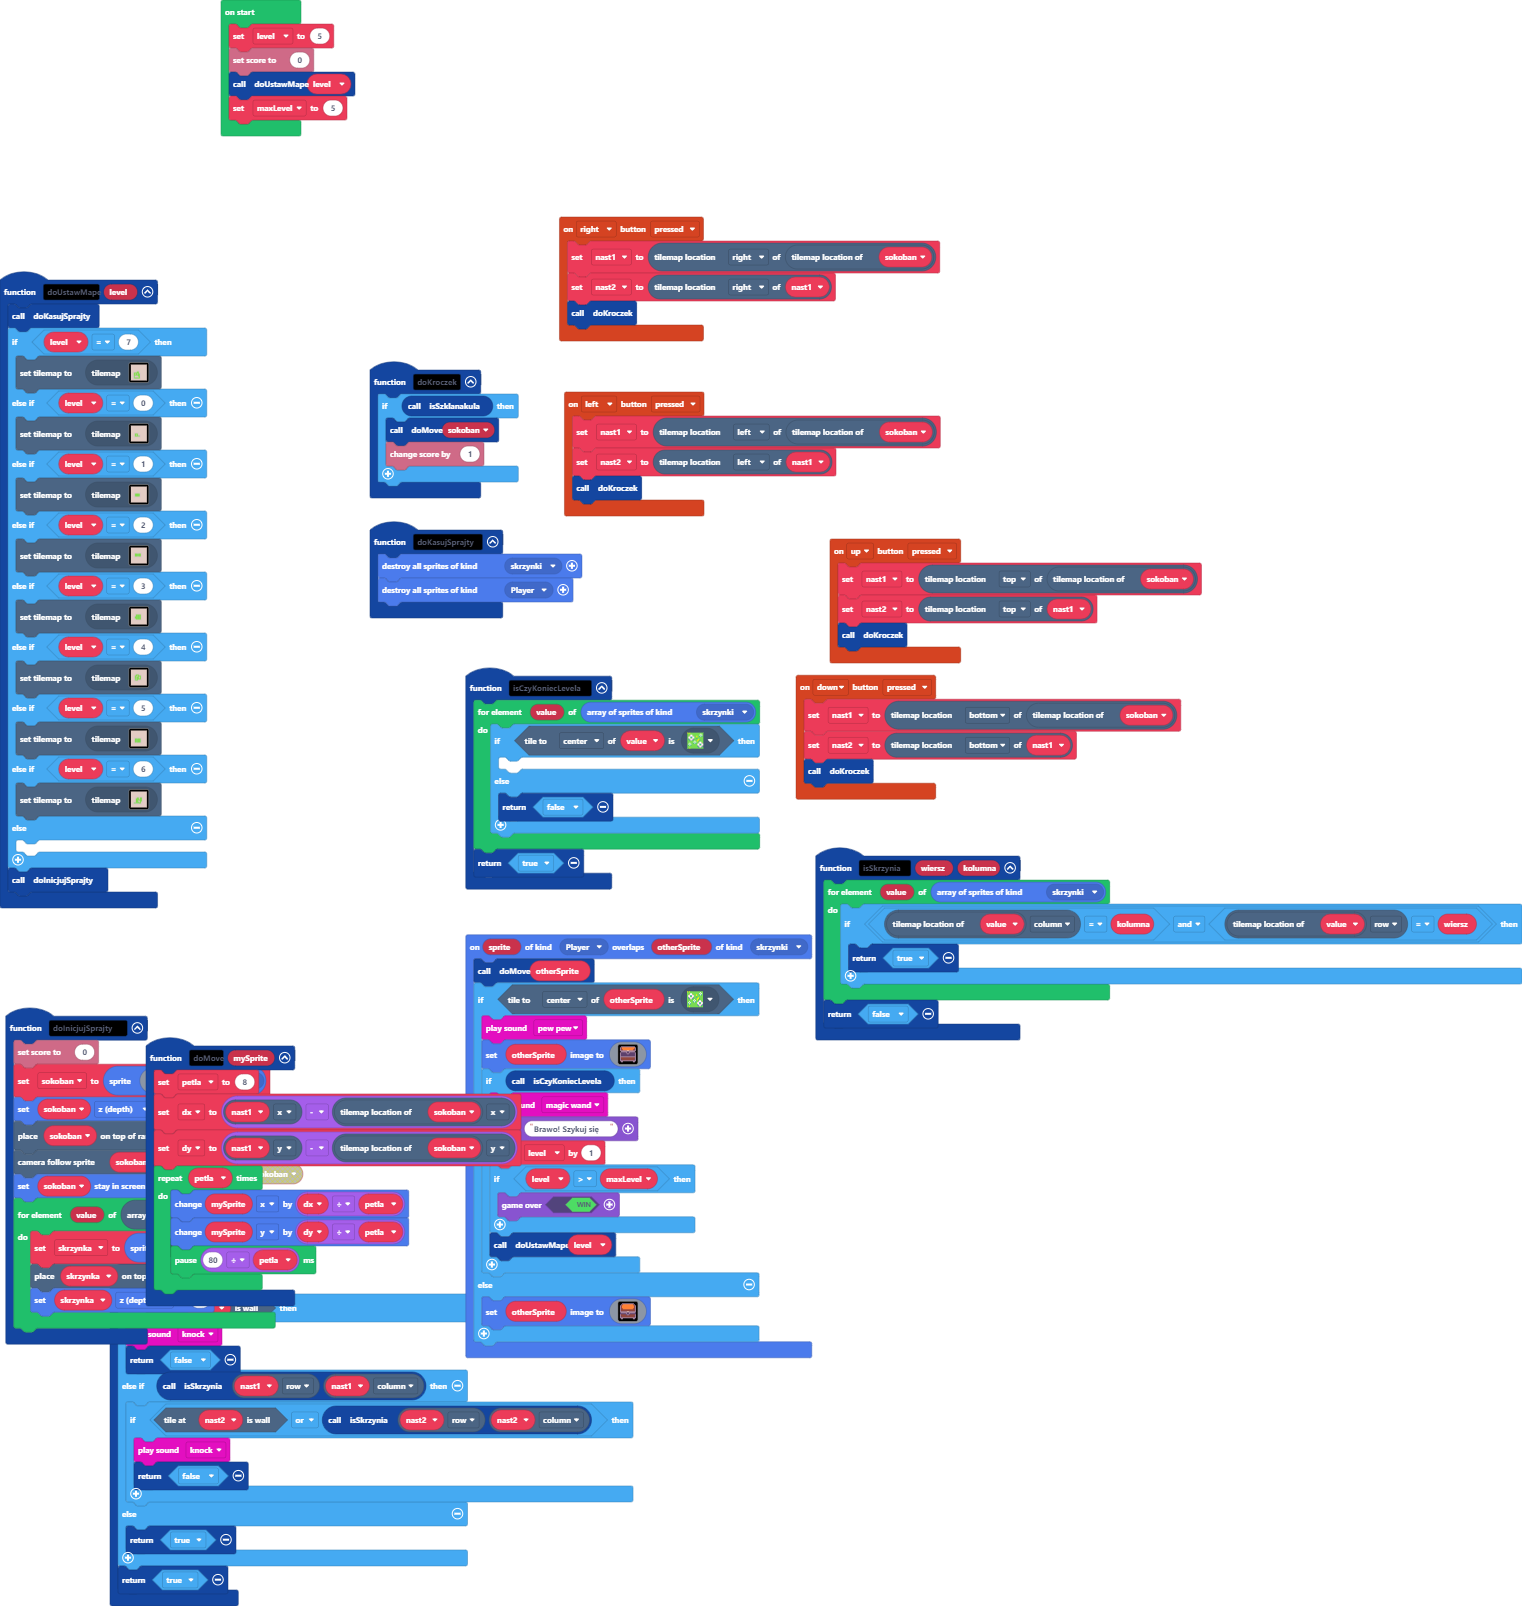
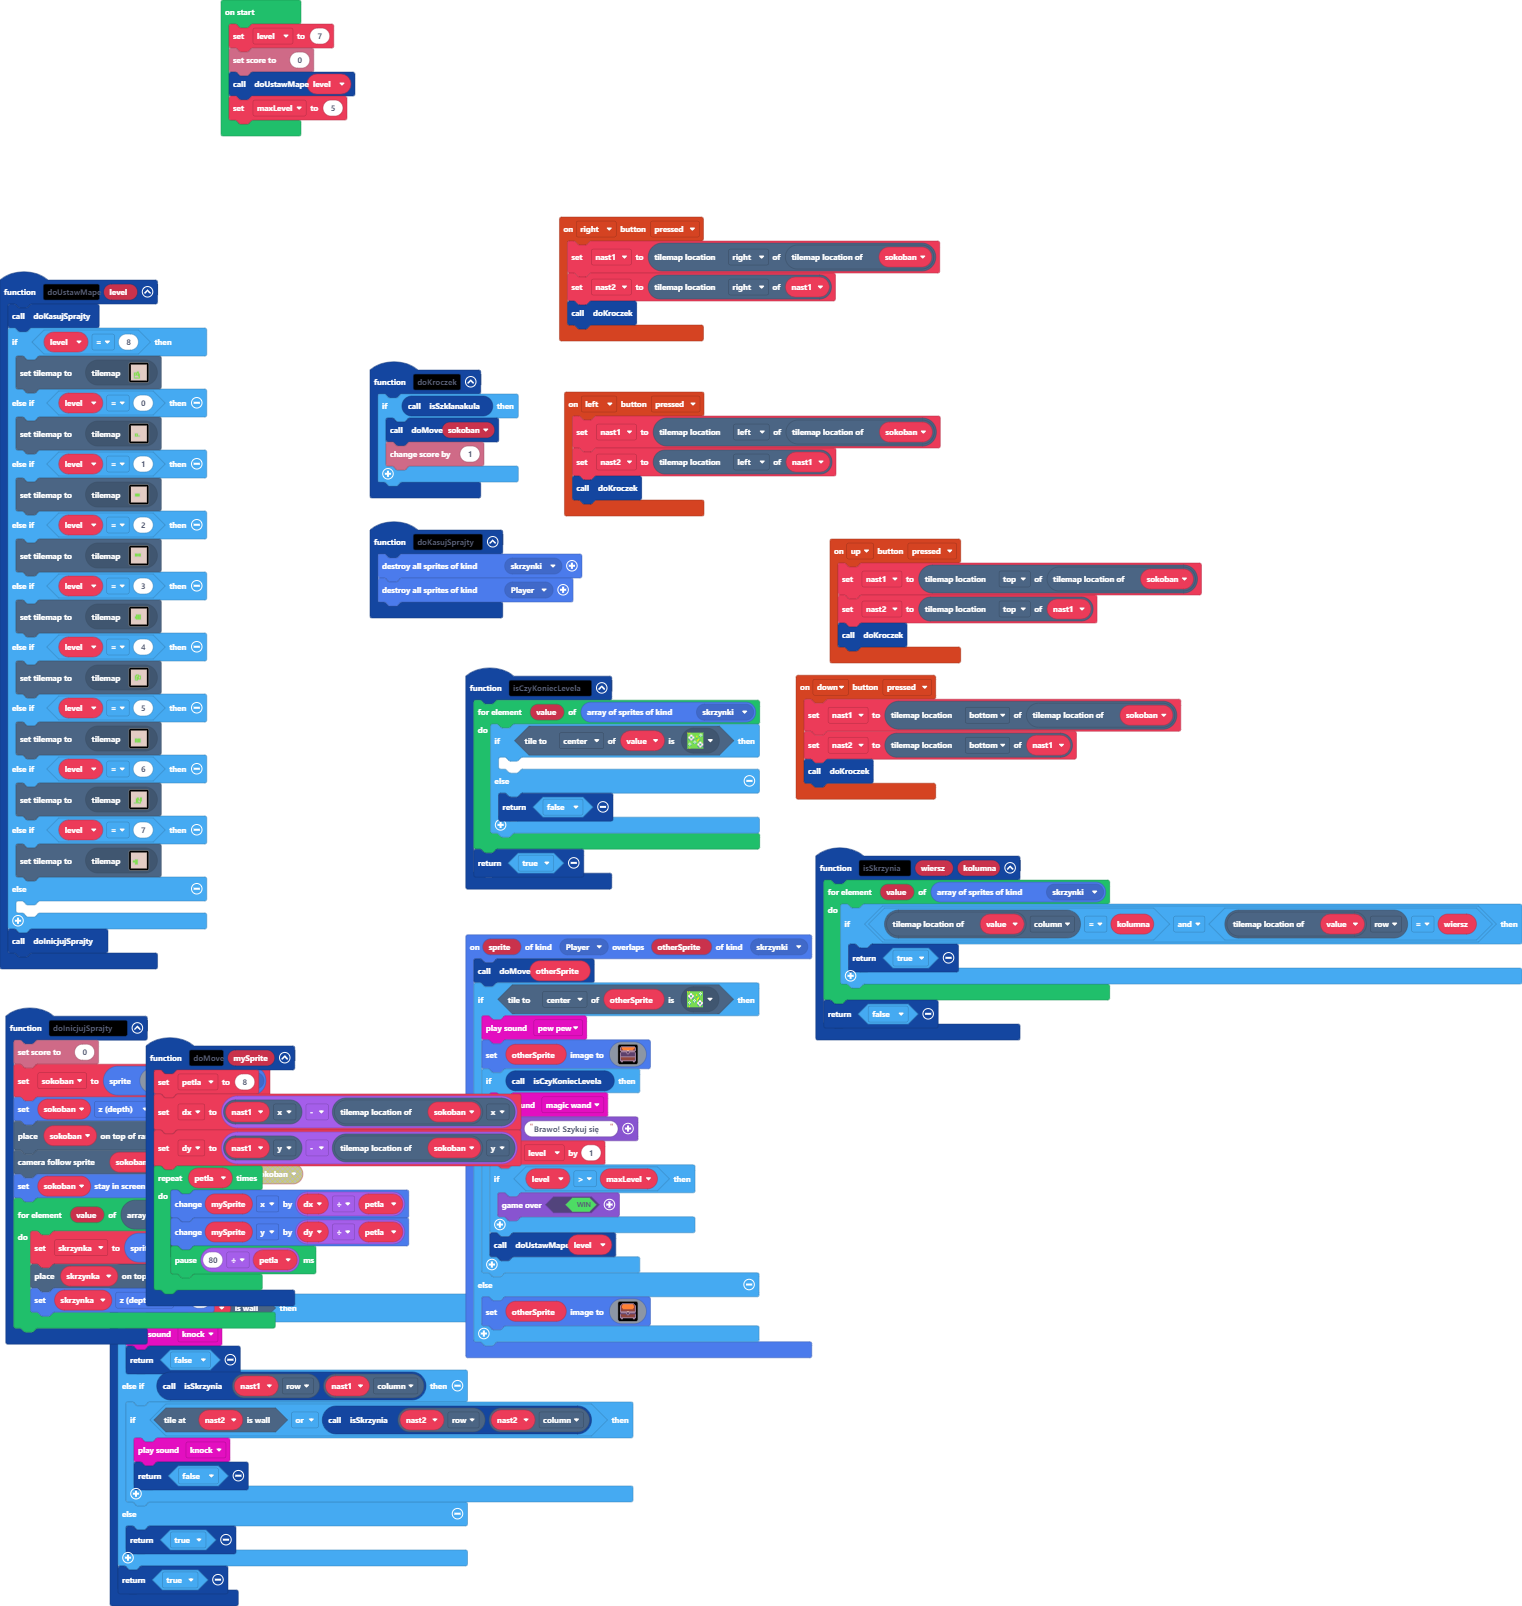
siódmy level

Changed region(s): [[0.0, 0.4981, 0.1544, 0.6227]]

diff --git a/tilemap.g.ts b/tilemap.g.ts
@@ -138,25 +138,6 @@ namespace myTiles {
 . . . . . . . . . . . . . . . . 
 . . . . . . . . . . . . . . . . 
 `, [myTiles.transparency16,sprites.castle.tileGrass2,sprites.dungeon.floorLight0,sprites.castle.tileGrass1,sprites.skillmap.islandTile4,sprites.castle.tileGrass3,sprites.castle.tilePath5], TileScale.Sixteen);
-            case "level11":
-            case "level11":return tiles.createTilemap(hex`1000100000000000000000000000000000000000000000000000000000000000000000000000000000000000000000000000000000000000000000000000000000000000000000000000000000000000000000000000000000000000000000000000000000000000000000000000000000000000000000000000000000000000000000000000000000000000000000000000000000000000000000000000000000000000000000000000000000000000000000000000000000000000000000000000000000000000000000000000000000000000000000000000000000000000000000000000000000000000000000000000000000000000000000000000000000000000`, img`
-. . . . . . . . . . . . . . . . 
-. . . . . . . . . . . . . . . . 
-. . . . . . . . . . . . . . . . 
-. . . . . . . . . . . . . . . . 
-. . . . . . . . . . . . . . . . 
-. . . . . . . . . . . . . . . . 
-. . . . . . . . . . . . . . . . 
-. . . . . . . . . . . . . . . . 
-. . . . . . . . . . . . . . . . 
-. . . . . . . . . . . . . . . . 
-. . . . . . . . . . . . . . . . 
-. . . . . . . . . . . . . . . . 
-. . . . . . . . . . . . . . . . 
-. . . . . . . . . . . . . . . . 
-. . . . . . . . . . . . . . . . 
-. . . . . . . . . . . . . . . . 
-`, [myTiles.transparency16], TileScale.Sixteen);
             case "level10":
             case "level10":return tiles.createTilemap(hex`1000100006060606060606060606060606060606060606060606060606060606060606060606060606060606060606060606060606060606060606060606060606060606060606060606060606060606060606060606060606020202020202020606060606060606020204040204050206060606060606060204040402040402060606060606060602030403040304020606060606060606020403020204040206060606060602020204030402040202060606060606020101010101040402060606060606060202020202020202020606060606060606060606060606060606060606060606060606060606060606060606060606060606060606060606060606060606`, img`
 . . . . . . . . . . . . . . . . 
@@ -176,6 +157,44 @@ namespace myTiles {
 . . . . . . . . . . . . . . . . 
 . . . . . . . . . . . . . . . . 
 `, [myTiles.transparency16,sprites.castle.tileGrass2,sprites.dungeon.floorLight0,sprites.castle.tileGrass1,sprites.castle.tileGrass3,sprites.skillmap.islandTile4,sprites.castle.tilePath5], TileScale.Sixteen);
+            case "level12":
+            case "level12":return tiles.createTilemap(hex`1000100000000000000000000000000000000000000000000000000000000000000000000000000000000000000000000000000000000000000000000000000000000000000000000000000000000000000000000000000000000000000000000000000000000000000000000000000000000000000000000000000000000000000000000000000000000000000000000000000000000000000000000000000000000000000000000000000000000000000000000000000000000000000000000000000000000000000000000000000000000000000000000000000000000000000000000000000000000000000000000000000000000000000000000000000000000000`, img`
+. . . . . . . . . . . . . . . . 
+. . . . . . . . . . . . . . . . 
+. . . . . . . . . . . . . . . . 
+. . . . . . . . . . . . . . . . 
+. . . . . . . . . . . . . . . . 
+. . . . . . . . . . . . . . . . 
+. . . . . . . . . . . . . . . . 
+. . . . . . . . . . . . . . . . 
+. . . . . . . . . . . . . . . . 
+. . . . . . . . . . . . . . . . 
+. . . . . . . . . . . . . . . . 
+. . . . . . . . . . . . . . . . 
+. . . . . . . . . . . . . . . . 
+. . . . . . . . . . . . . . . . 
+. . . . . . . . . . . . . . . . 
+. . . . . . . . . . . . . . . . 
+`, [myTiles.transparency16], TileScale.Sixteen);
+            case "level11":
+            case "level11":return tiles.createTilemap(hex`1000100006060606060606060606060606060606060606060606060606060606060606060606060606060606060606060606060606060606060606060606060606060606060606060606060606060606060606060606060606060606060606060606060606060602020202020606060606060606060202020505050206060606060606060602030501040102060606060606060606020505040504020606060606060606060202020104010206060606060606060606060205050502060606060606060606060602020202020606060606060606060606060606060606060606060606060606060606060606060606060606060606060606060606060606060606060606`, img`
+. . . . . . . . . . . . . . . . 
+. . . . . . . . . . . . . . . . 
+. . . . . . . . . . . . . . . . 
+. . . . . . . . . . . . . . . . 
+. . . . . . . . . . . . . . . . 
+. . . . . . . . . . . . . . . . 
+. . . 2 2 2 2 2 . . . . . . . . 
+. 2 2 2 . . . 2 . . . . . . . . 
+. 2 . . . . . 2 . . . . . . . . 
+. 2 . . . . . 2 . . . . . . . . 
+. 2 2 2 . . . 2 . . . . . . . . 
+. . . 2 . . . 2 . . . . . . . . 
+. . . 2 2 2 2 2 . . . . . . . . 
+. . . . . . . . . . . . . . . . 
+. . . . . . . . . . . . . . . . 
+. . . . . . . . . . . . . . . . 
+`, [myTiles.transparency16,sprites.castle.tileGrass2,sprites.dungeon.floorLight0,sprites.skillmap.islandTile4,sprites.castle.tileGrass1,sprites.castle.tileGrass3,sprites.castle.tilePath5], TileScale.Sixteen);
         }
         return null;
     })

diff --git a/main.ts b/main.ts
@@ -22,7 +22,7 @@ function doKasujSprajty () {
 }
 function doUstawMape (level: number) {
     doKasujSprajty()
-    if (level == 7) {
+    if (level == 8) {
         tiles.setCurrentTilemap(tilemap`level0`)
     } else if (level == 0) {
         tiles.setCurrentTilemap(tilemap`level4`)
@@ -38,6 +38,8 @@ function doUstawMape (level: number) {
         tiles.setCurrentTilemap(tilemap`level9`)
     } else if (level == 6) {
         tiles.setCurrentTilemap(tilemap`level10`)
+    } else if (level == 7) {
+        tiles.setCurrentTilemap(tilemap`level11`)
     } else {
     	
     }
@@ -204,7 +206,7 @@ let sokoban: Sprite = null
 let nast1: tiles.Location = null
 let maxLevel = 0
 let level = 0
-level = 5
+level = 7
 info.setScore(0)
 doUstawMape(level)
 maxLevel = 5
